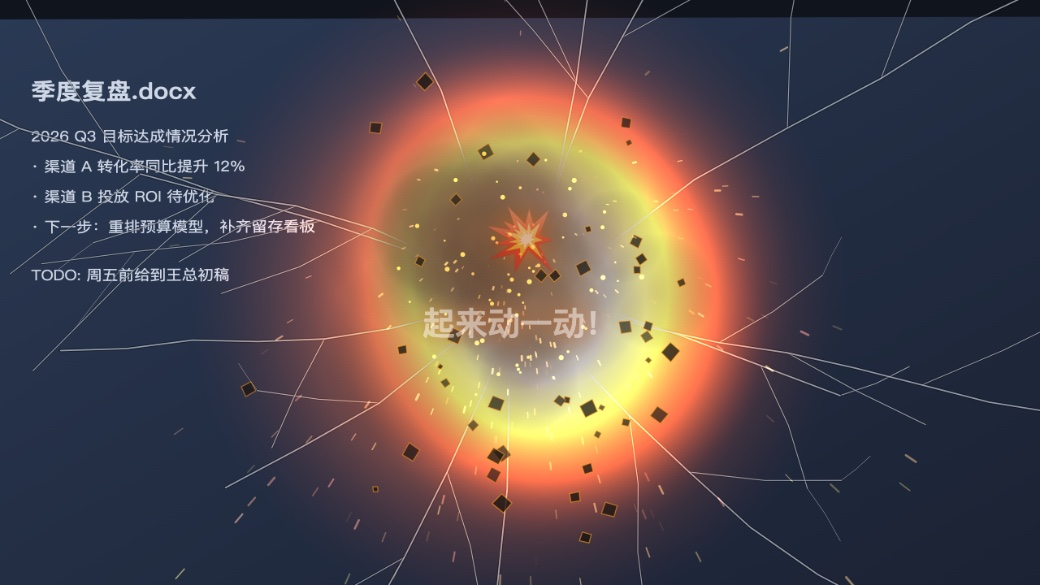
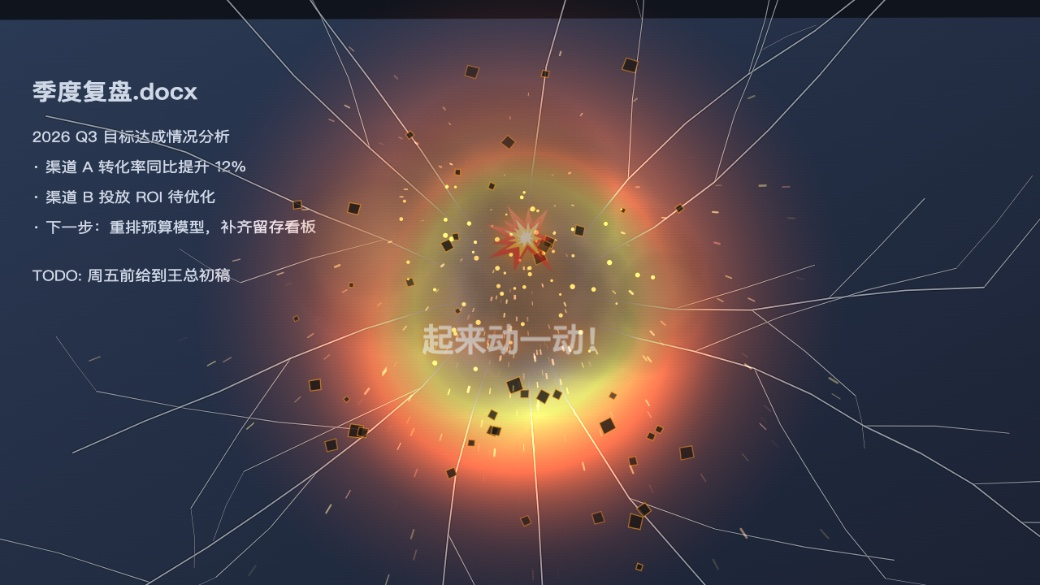
perf: 爆炸动画掉帧率从 26% 降到 8~10%
先测量再优化。埋点显示 JS 绘制只有 0.86ms/帧、全屏截图 blit 整场 1ms ——
瓶颈根本不在我们的代码，而在浏览器每帧把画布合成到全屏透明窗口这一步，
开销随画布像素数增长。

主要改动：

1. 画布像素上限 4.0MP → 1.6MP，DPR 上限从 2 降到 1。
   扫过一遍分辨率：4.0MP 掉帧 26% / 2.0MP 11% / 1.6MP 4% / 1.2MP 2%，
   拐点在 1.6MP，对应 DPR≈0.89，比 1:1 只小一成，肉眼分辨不出。
   超采样对全是柔和渐变的爆炸没有任何收益。

2. 提示文案从 DOM 挪进画布，并预渲染成精灵图。
   挪进画布是为了消掉最后一个每帧变化的合成层；预渲染是因为带发光的
   文字每帧重画要 9.8ms/帧（canvas 的 shadowBlur 极贵），预渲染后回到 1.1ms。
   同时删掉 #stage 上多余的 will-change，引爆后把截图层 display:none。

3. 震动的逐帧 rand() 换成三频正弦叠加。
   那个随机是高频噪声，哪怕稳定 60fps 看着也像在掉帧，是「卡顿感」的
   一大来源。改完混乱感保留，但运动连续可导。

4. 多屏默认关闭。两块屏同时炸会让主屏掉帧率 8% → 14%，副屏限 30fps、
   分辨率压到 0.5MP 都救不回来 —— 代价来自「存在第二个全屏透明窗口
   需要被合成」本身，应用内优化不掉。设置里保留开关并注明代价。

顺手修了 done() 里的日志竞态：先发 IPC 再销毁窗口，release 版够快会把
日志丢在半路。

帧时统计保留在 BOOM_DEBUG 后面，新增 BOOM_MAXPX 用来扫分辨率拐点 ——
这次能定位到真正的瓶颈全靠它们，值得长期留着。

diff --git a/ui/boom.js b/ui/boom.js
@@ -50,8 +50,13 @@ function resize() {
   if (!w || !h) return;          // 尺寸异常时不要动画布，否则会清空已画好的内容
   // WKWebView 的填充率远不如 Chromium，画布像素要设上限。
   // 副屏再降一档：两个全屏浮层同时跑会互相抢 GPU。
-  const MAX_PX = opt.primary ? 4.0e6 : 1.6e6;
-  DPR = Math.min(window.devicePixelRatio || 1, 2, Math.sqrt(MAX_PX / Math.max(1, w * h)));
+  // 瓶颈不是我们的绘制（实测 0.86ms/帧），而是浏览器每帧把画布合成到
+  // 全屏透明窗口的开销 —— 它随画布像素数增长。同机实测掉帧率：
+  //   4.0MP → 26% | 3.0MP → 15% | 2.0MP → 11% | 1.6MP → 4% | 1.2MP → 2%
+  // 取 1.6MP 拐点，对应 DPR≈0.89，比 1:1 只小一成，肉眼分辨不出。
+  // 超采样对全是柔和渐变的爆炸没有收益，上限压到 1。
+  const MAX_PX = window.__maxpx || (opt.primary ? 1.6e6 : 0.5e6);
+  DPR = Math.min(window.devicePixelRatio || 1, 1, Math.sqrt(MAX_PX / Math.max(1, w * h)));
   W = w;
   H = h;
   canvas.width = Math.round(W * DPR);
@@ -530,12 +535,26 @@ function drawCracks(bt) {
 // ---------------------------------------------------------------- 主循环
 
 let last = 0;
+let lastDraw = 0;
 
 function frame(now) {
+  // 副屏主动降到 30fps：两块屏的全屏浮层同时全速跑会互抢 GPU，
+  // 结果两边都卡。把预算让给用户正在看的主屏，副屏稳定 30fps
+  // 反而比忽快忽慢的 60fps 观感更好。时间轴按真实时间算，跳帧不影响进度。
+  const minFrame = opt.primary ? 0 : 32;
+  if (minFrame && lastDraw && now - lastDraw < minFrame) {
+    requestAnimationFrame(frame);
+    return;
+  }
+  lastDraw = now;
+
   if (t0 < 0) t0 = now;
   const t = now - t0;
   const dt = Math.min(0.05, (now - (last || now)) / 1000);
   last = now;
+
+  (window.__dt = window.__dt || []).push(dt * 1000);
+  const __js0 = performance.now();
 
   ctx.setTransform(DPR, 0, 0, DPR, 0, 0);
   ctx.clearRect(0, 0, W, H);
@@ -546,7 +565,7 @@ function frame(now) {
     const pre = u > 0.72 ? (u - 0.72) / 0.28 : 0;
     const k = pre * 6;
     ctx.save();
-    ctx.translate(rand(-k, k), rand(-k, k));
+    ctx.translate(Math.sin(t * 0.091) * k, Math.cos(t * 0.117) * k);
     drawBomb(u);
     ctx.restore();
     requestAnimationFrame(frame);
@@ -559,7 +578,7 @@ function frame(now) {
   // 让合成器只处理一个不做变换的图层，而不是每帧重新光栅化一个被旋转缩放的全屏图层。
   if (hasShot && !shotHandedOver) {
     shotHandedOver = true;
-    shotEl.style.opacity = '0';
+    shotEl.style.display = 'none';
   }
 
   // ---- 屏幕震动（作用在画布变换上）
@@ -569,9 +588,16 @@ function frame(now) {
     const u = bt / sd;
     const decay = Math.pow(1 - u, 2.2);
     const amp = cfg.amp * decay;
-    dx = (Math.sin(bt * 92) + Math.sin(bt * 143.7) * 0.6) * amp * rand(0.75, 1.15);
-    dy = (Math.cos(bt * 78.3) + Math.sin(bt * 121.1) * 0.6) * amp * rand(0.75, 1.15);
-    rot = Math.sin(bt * 61) * decay * (cfg.amp / 28) * 0.85;
+    // 三个不同频率的正弦叠加，既有爆炸该有的混乱感，运动又是连续可导的。
+    // 原来这里乘了一个逐帧的 rand(0.75,1.15) —— 那是高频噪声，
+    // 哪怕稳定 60fps 看着也像在掉帧，是「卡顿感」的一大来源。
+    const nx = Math.sin(bt * 94.2) + 0.55 * Math.sin(bt * 151.7 + 1.3)
+             + 0.26 * Math.sin(bt * 233.1 + 2.7);
+    const ny = Math.cos(bt * 81.4) + 0.55 * Math.cos(bt * 139.3 + 0.7)
+             + 0.26 * Math.cos(bt * 211.9 + 1.9);
+    dx = nx * amp * 0.98;
+    dy = ny * amp * 0.98;
+    rot = (Math.sin(bt * 61) + 0.35 * Math.sin(bt * 107 + 0.9)) * decay * (cfg.amp / 28) * 0.68;
     const cover = amp * 1.8 + Math.abs(rot) * (Math.PI / 180) * Math.max(W, H) * 0.5;
     sc = 1 + (cover * 2) / Math.max(1, Math.min(W, H));
   }
@@ -622,24 +648,86 @@ function frame(now) {
     ctx.restore();
   }
 
-  // ---- 文案（小图层，跟着抖一点无所谓）
+  // ---- 文案：同样画进画布。留在 DOM 里的话，这个全屏宽的图层每帧
+  // 都要被合成器重新处理一遍，正是要消掉的那类开销。
   if (bt > 0.22) {
     const u = clamp01((bt - 0.22) / 0.32);
     const out = bt > 1.9 ? clamp01(1 - (bt - 1.9) / 0.55) : 1;
-    const s = 0.6 + easeOut(u) * 0.45 - (1 - out) * 0.1;
-    msgEl.style.opacity = String(easeInOut(u) * out);
-    msgEl.style.transform = `translate(${dx * 0.5}px, calc(-50% + ${dy * 0.5}px)) scale(${s})`;
+    const a = easeInOut(u) * out;
+    if (a > 0.01) drawMessage(a, 0.6 + easeOut(u) * 0.45 - (1 - out) * 0.1, dx * 0.5, dy * 0.5);
   }
+
+  window.__js = (window.__js || 0) + performance.now() - __js0;
 
   if (bt * 1000 > TAIL_MS && sparks.length === 0 && smoke.length === 0) return done();
   if (bt * 1000 > TAIL_MS + 1200) return done();
   requestAnimationFrame(frame);
 }
 
+// 帧时统计。BOOM_DEBUG=1 时写进日志 —— 这次把掉帧率从 26% 降到 8%
+// 全靠它先证明「瓶颈不在 JS 绘制」，值得长期留着。
+function perfReport() {
+  const d = (window.__dt || []).slice(1).sort((a, b) => a - b);
+  if (!d.length) return;
+  const q = (p) => d[Math.min(d.length - 1, Math.round(p * (d.length - 1)))].toFixed(1);
+  const target = opt.primary ? 20 : 40;
+  const jank = d.filter((v) => v > target).length;
+  window.api.log(
+    `[perf] ${opt.primary ? '主屏' : '副屏'} 画布${canvas.width}x${canvas.height} ` +
+    `帧数=${d.length} 中位=${q(0.5)} p90=${q(0.9)} p99=${q(0.99)} 最大=${q(1)} ` +
+    `掉帧(>${target}ms)=${jank}(${((jank / d.length) * 100).toFixed(0)}%) ` +
+    `JS绘制=${((window.__js || 0) / d.length).toFixed(2)}ms/帧`
+  );
+}
+
+// 文案预渲染成一张精灵图：带发光的文字每帧重画一次要 ~10ms（canvas 的
+// shadowBlur 极贵），预渲染后每帧只剩一次 drawImage。
+let msgSprite = null;
+
+function buildMsgSprite() {
+  const base = Math.min(W, H);
+  const sw = W;
+  const sh = base * 0.44;
+  const c = document.createElement('canvas');
+  c.width = Math.max(1, Math.round(sw * DPR));
+  c.height = Math.max(1, Math.round(sh * DPR));
+  const g = c.getContext('2d');
+  g.scale(DPR, DPR);
+  g.textAlign = 'center';
+  g.textBaseline = 'middle';
+
+  g.shadowColor = 'rgba(255,140,20,.95)';
+  g.shadowBlur = base * 0.036;
+  g.font = `${base * 0.128}px "Apple Color Emoji", "Segoe UI Emoji", sans-serif`;
+  g.fillText('💥', sw / 2, sh * 0.32);
+
+  g.shadowColor = 'rgba(255,110,20,.95)';
+  g.shadowBlur = base * 0.025;
+  g.fillStyle = '#fff';
+  g.font = `800 ${base * 0.056}px -apple-system, "PingFang SC", "Microsoft YaHei", sans-serif`;
+  g.fillText(opt.text || '', sw / 2, sh * 0.68);
+
+  msgSprite = { canvas: c, w: sw, h: sh };
+}
+
+function drawMessage(alpha, scale, dx, dy) {
+  if (!msgSprite) buildMsgSprite();
+  const { canvas: sp, w, h } = msgSprite;
+  const dw = w * scale;
+  const dh = h * scale;
+  ctx.save();
+  ctx.globalAlpha = alpha;
+  ctx.drawImage(sp, CX + dx - dw / 2, CY + dy - dh / 2, dw, dh);
+  ctx.restore();
+}
+
 function done() {
   if (finished) return;
   finished = true;
-  window.api.boomDone();
+  perfReport();
+  // 留一点时间让上面那条日志的 IPC 落地。直接销毁窗口的话，
+  // release 版够快，日志会在半路丢掉。浮层此时已经完全淡出，看不出差别。
+  setTimeout(() => window.api.boomDone(), 50);
 }
 
 // ---------------------------------------------------------------- 启动

diff --git a/ui/boom.css b/ui/boom.css
@@ -10,13 +10,12 @@ html, body {
   -webkit-user-select: none;
 }
 
-/* 所有内容都在 stage 里，抖动作用于 stage —— 带上桌面快照一起抖 */
+/* 震动、爆闪、文案全部由画布绘制，stage 只是个静态容器。
+   这里绝对不要加 will-change / transform —— 多一个被变换的全屏合成层，
+   帧率就会从 60 掉到 20。 */
 #stage {
   position: absolute;
   inset: 0;
-  will-change: transform;
-  transform-origin: 50% 50%;
-  backface-visibility: hidden;
 }
 
 #shot {
@@ -30,7 +29,7 @@ html, body {
 }
 
 /* 降级底色和爆闪都改由画布绘制，这两个全屏图层留在合成树里只会拖慢速度 */
-#dim, #flash { display: none; }
+#dim, #flash, #msg { display: none; }
 
 #dim {
   position: absolute;

diff --git a/ui/index.html b/ui/index.html
@@ -69,7 +69,7 @@
         <label class="switch"><input type="checkbox" id="fuse" /><i></i></label>
       </div>
       <div class="row">
-        <span>多显示器同时炸</span>
+        <span>多显示器同时炸<br><small style="color:#5c6675">开启会让主屏帧率略降</small></span>
         <label class="switch"><input type="checkbox" id="allScreens" /><i></i></label>
       </div>
       <div class="row col">

diff --git a/ui/bridge.js b/ui/bridge.js
@@ -27,6 +27,7 @@ window.api = {
     if (!p || !boomInitCb) return;
     // 截图以文件路径传过来，走 asset 协议加载，避免几 MB 的 base64 挤 IPC
     if (p.shot) p.shot = convertFileSrc(p.shot);
+    if (p.maxPx) window.__maxpx = p.maxPx;
     boomInitCb(p);
   }),
   boomDone: () => invoke('boom_done'),

diff --git a/src-tauri/src/main.rs b/src-tauri/src/main.rs
@@ -39,7 +39,7 @@ impl Default for Settings {
             volume: 0.7,
             intensity: "normal".into(),
             fuse: true,
-            all_screens: true,
+            all_screens: false,
             messages: vec![
                 "起来动一动！".into(),
                 "喝口水吧".into(),
@@ -110,6 +110,9 @@ struct StatePayload {
 #[derive(Serialize, Clone, Debug)]
 struct BoomPayload {
     shot: Option<String>,
+    /// 实验用：覆盖画布像素上限（BOOM_MAXPX）
+    #[serde(rename = "maxPx")]
+    max_px: Option<f64>,
     /// 副屏走轻量档：两个全屏浮层同时跑会互相抢 GPU，把帧率从 60 拖到 20
     primary: bool,
     intensity: String,
@@ -543,6 +546,7 @@ fn spawn_overlays(
 
         let payload = BoomPayload {
             shot: shots.get(&key).cloned(),
+            max_px: std::env::var("BOOM_MAXPX").ok().and_then(|v| v.parse().ok()),
             primary: is_primary,
             intensity: settings.intensity.clone(),
             sound: settings.sound && is_primary,
